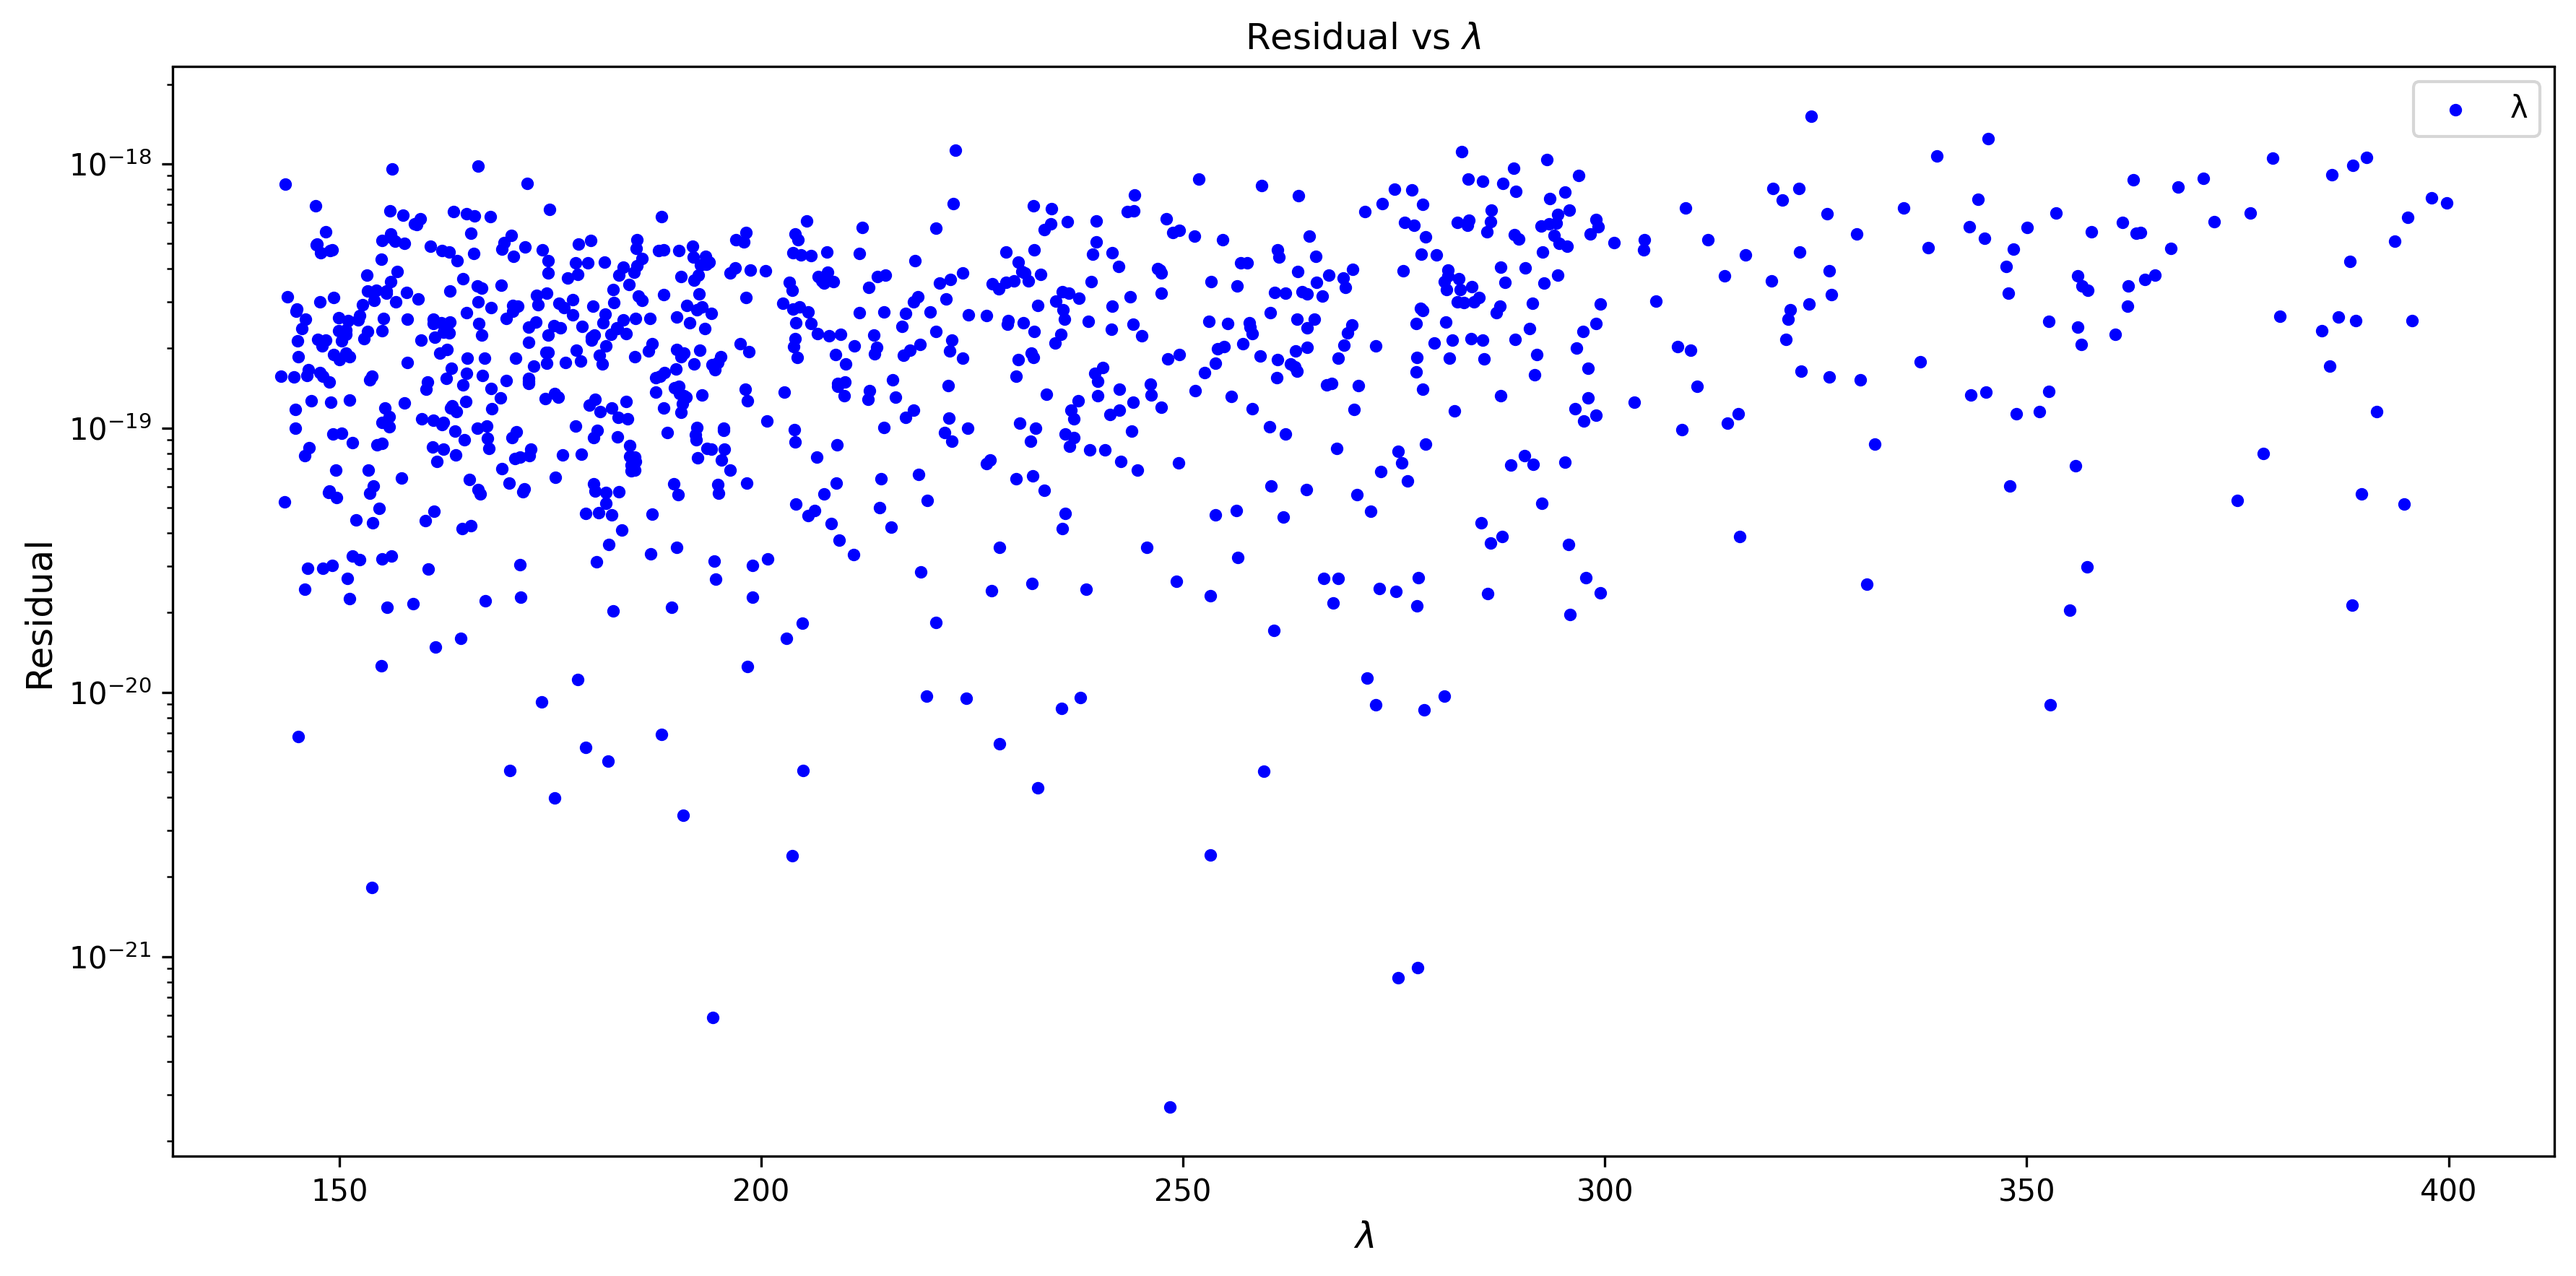
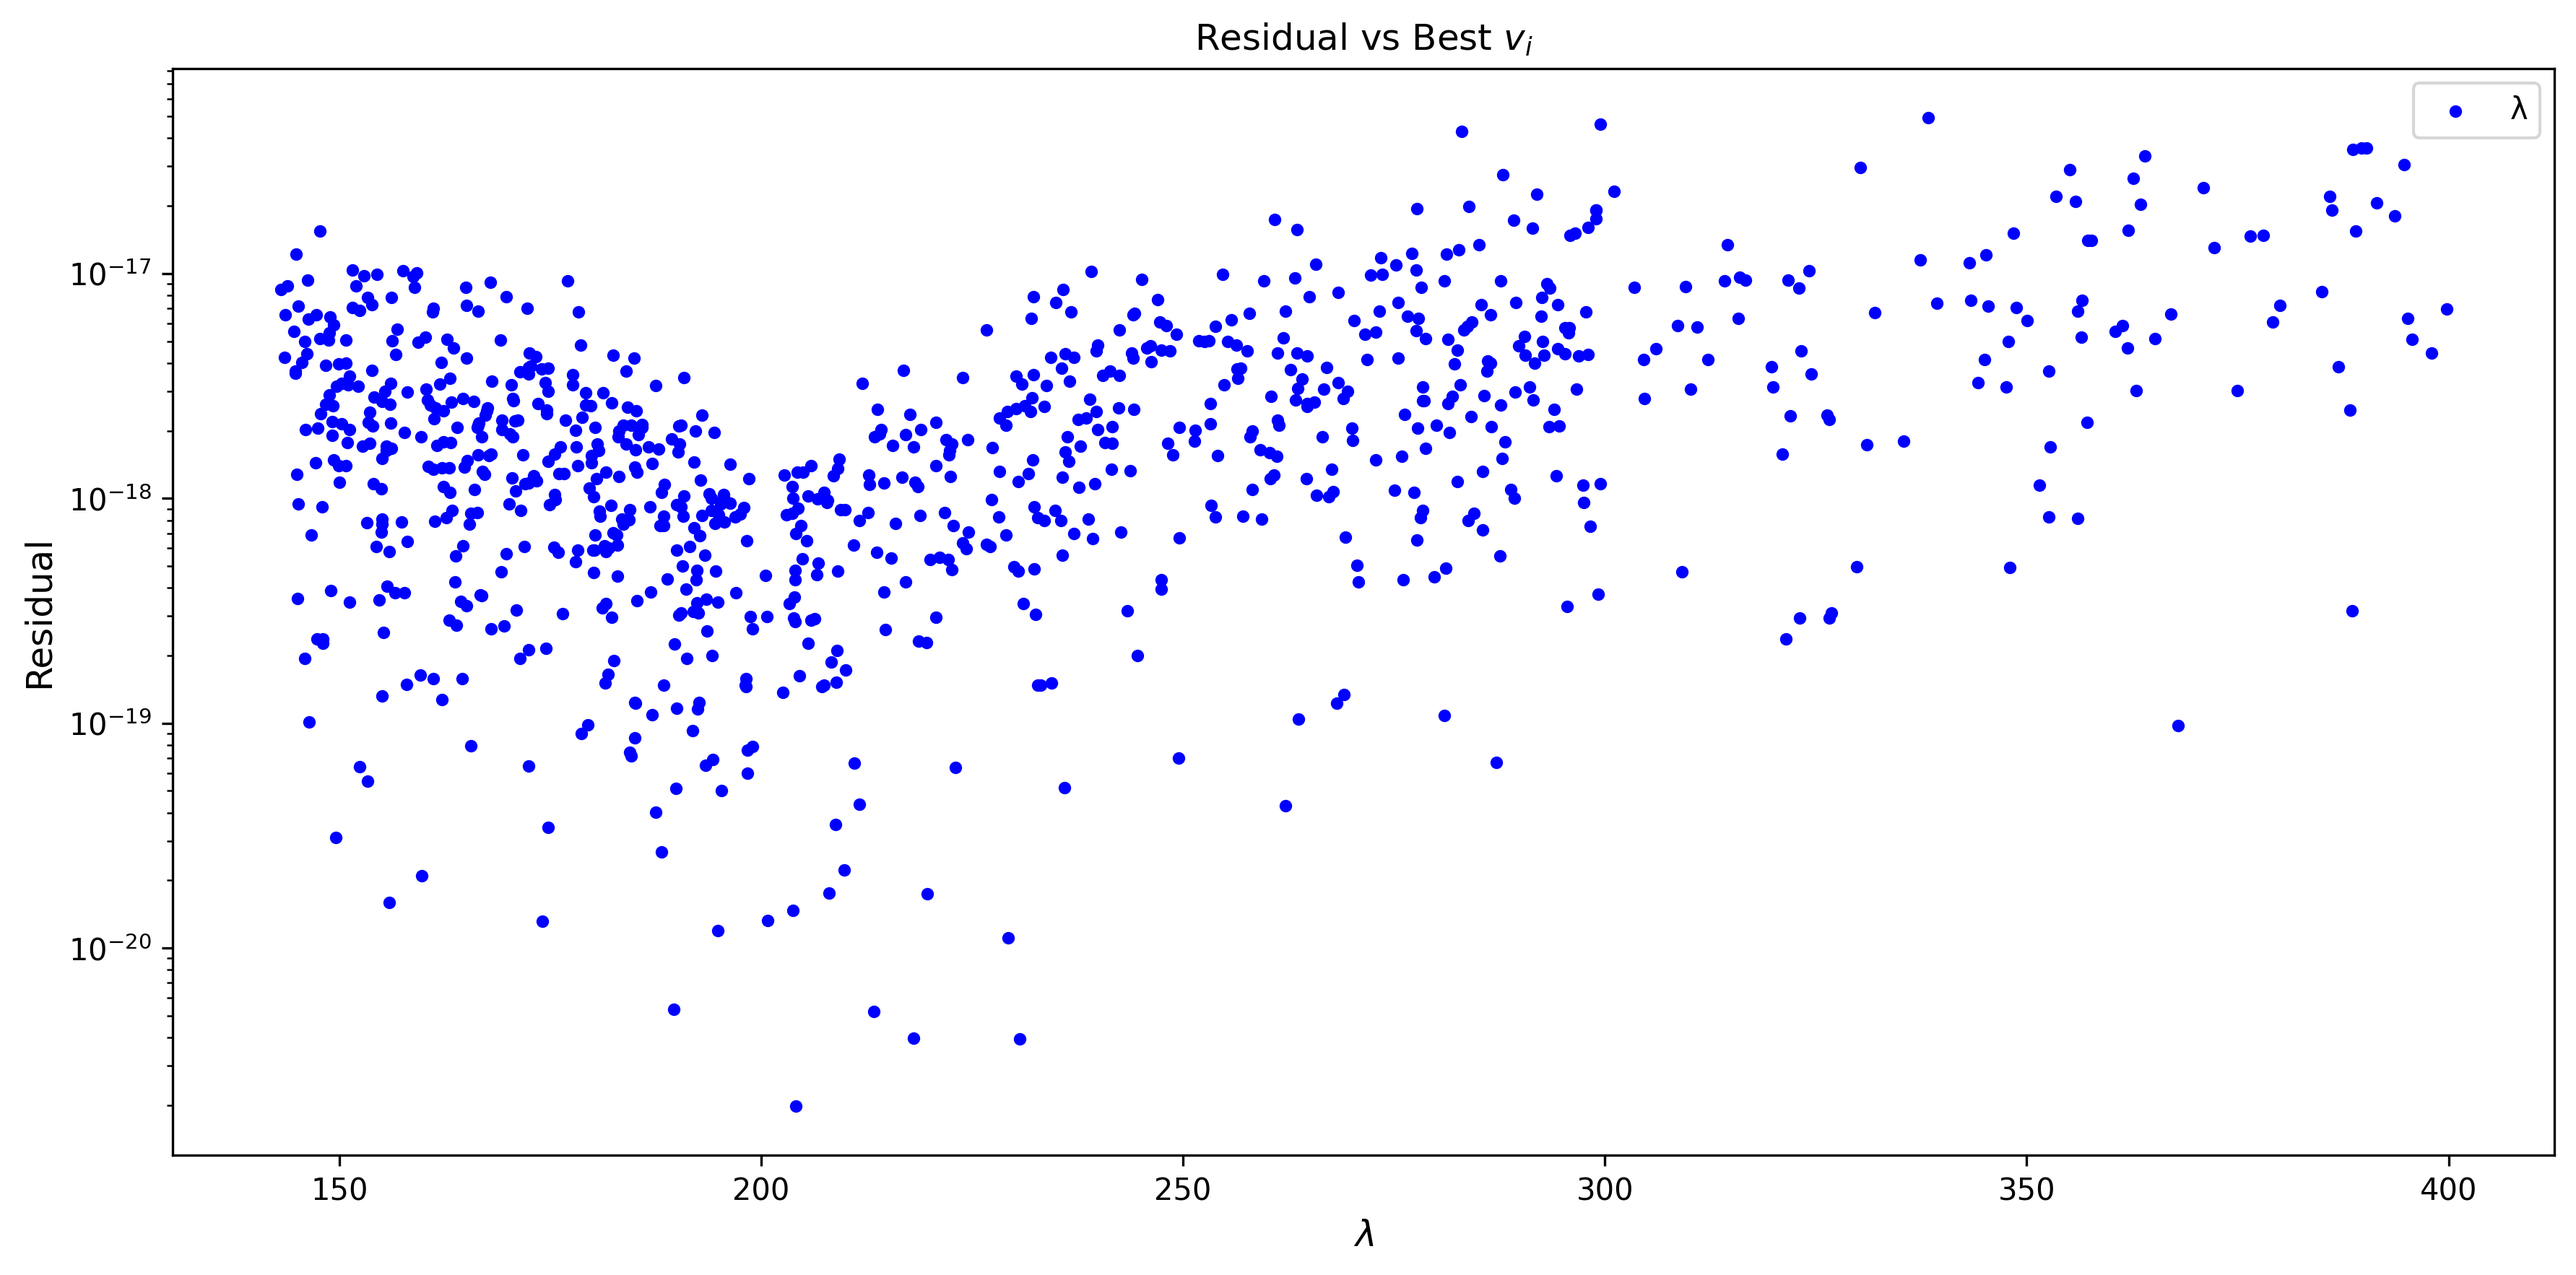
Fixed bugs and modified residual plots

diff --git a/code/spectral_lanczos.py b/code/spectral_lanczos.py
@@ -186,7 +186,7 @@ def is_triu(T):
     """Check if T is upper triangular """
     return np.allclose(T, np.triu(T))
 
-def inverse_iteration(T, tol=1e-10, max_iter=1000):
+def inverse_iteration(T, tol=1e-10, max_iter=3000):
     """ Compute the smallest singular values using inverse iteration"""
     m, n = T.shape
     x = np.random.randn(n)
@@ -210,22 +210,33 @@ def compute_best_v(A, B, alphas, betas, tol):
     res = np.zeros_like(alphas, dtype=float)
     Ta, Tb, Q, Z = qz(A, B)
     for i in range(len(alphas)):
-        T = betas[i]*Ta - alphas[i]*Tb
+        T = betas[i] * Ta - alphas[i] * Tb
         n = T.shape[0]
 
         # Check if subdiagonal element is zero based on tol
-        for j in range(n-1):
-            if np.abs(T[j+1, j]) <= tol:
-                T[j+1, j] = 0
-            else:
-                continue
-            blk = T[j:j+1, j:j+1]
-            q, r = qr(blk)
-            T[j:j+1, j:n] = q.T @ T[j:j+1, j:n]
-        
+        for j in range(n - 1): 
+            if T[j + 1, j] != 0:
+                if np.abs(T[j + 1, j]) <= tol:
+                    T[j + 1, j] = 0
+                else:
+                    blk = T[j:j + 2, j:j + 2]
+                    q, r = qr(blk)
+                    T[j:j + 2, j:n] = q.T @ T[j:j + 2, j:n]
+
+        # Ensure T is upper triangular
         if not is_triu(T):
             print("T not upper triangular!")
             sys.exit(1)
+
+        # Check for zero diagonal elements and handle them
+        diag_indices = np.diag_indices_from(T)
+        zero_diag = np.abs(T[diag_indices]) <= tol
+        if np.any(zero_diag):
+            print(f"Diagonal element(s) too small or zero in T for index {i}. Skipping...")
+            res[i] = np.inf
+            continue
+
+        # Perform inverse iteration
         sigma_min, x = inverse_iteration(T, tol=tol)
         den = np.abs(betas[i]) * la.norm(A) + np.abs(alphas[i]) * la.norm(B)
         res[i] = sigma_min / den if den != 0 else np.inf
@@ -248,21 +259,27 @@ def compute_generalized_residuals(A, B, L, U_converged, theta_converged, shift):
         print("No converged Ritz pair!")
         sys.exit(1)
 
-def plot_residuals(eigenvalues, residuals, save_path=None):
-    """ Plot the residuals """
-    fig, ax1 = plt.subplots(1, 1, figsize=(12, 6), sharey=True)
-    
-    # Plot for the residuals of computed eigenvalues
-    ax1.scatter(eigenvalues, residuals, color='blue', label='λ', s=10)
-    #ax1.set_xscale('log')
+def plot_residuals(eigenvalues_generalized, residuals_generalized, eigenvalues_ritz, residuals_ritz, save_path=None):
+    """ Plot the residuals for both Generalized Eigenvalues and Ritz values side by side """
+    fig, (ax1, ax2) = plt.subplots(1, 2, figsize=(16, 6))
+
+    # Plot for the residuals of generalized eigenvalues
+    ax1.scatter(eigenvalues_generalized, residuals_generalized, color='blue', label='λ (Generalized)', s=10)
     ax1.set_yscale('log')
     ax1.set_xlabel(r'$\lambda$', fontsize=12)
     ax1.set_ylabel('Residual', fontsize=12)
-    ax1.set_title('Residual vs $\lambda$', fontsize=12)
+    ax1.set_title('Residual vs Generalized Eigenvalues', fontsize=12)
     ax1.legend()
 
+    # Plot for the residuals of Ritz values
+    ax2.scatter(eigenvalues_ritz, residuals_ritz, color='green', label='λ (Ritz)', s=10)
+    ax2.set_yscale('log')
+    ax2.set_xlabel(r'$\lambda$', fontsize=12)
+    ax2.set_title('Residual vs Ritz Values', fontsize=12)
+    ax2.legend()
+
     plt.tight_layout()
-    
+
     if save_path:
         plt.savefig(save_path, dpi=300, bbox_inches='tight')
         print(f"Plot saved to {save_path}")

diff --git a/code/main.py b/code/main.py
@@ -15,7 +15,7 @@ if __name__ == "__main__":
     shift = 201
     n=1200
     tol = 1e-10
-
+    
     D = eigenvalue_distribution(m1, m2, m3, spread1, spread2, spread3)
     D = np.diag(D)
     A, B, L = generate_matrix(D, delta=1e-2)
@@ -25,6 +25,10 @@ if __name__ == "__main__":
     # compute lanczos decomposition residual
     decomp_res = compute_decomp_residual(A=A, B=B, L=L, T=T, Q=Q, q=q, x=x, shift=shift)
 
+    print(f"Conditon number of A: {la.cond(A)}\n")
+    print(f"Condition number of B: {la.cond(B)}\n")
+    print(f"Decomposition residual: {decomp_res}\n")
+
     # Compute the converged ritz pairs and the (spectral transformation) relative ritz residuals
     U_converged, theta_converged, ritz_residuals = compute_ritz_residuals(A, B, L, T, Q, shift, tol)
 
@@ -32,22 +36,16 @@ if __name__ == "__main__":
     gen_residuals, v, alpha, beta = compute_generalized_residuals(A, B, L, U_converged, theta_converged, shift)
 
     # Compute the best relative residual
-    #res = compute_best_v(A, B, alpha, beta, tol=1e-10)
+    # res = compute_best_v(A, B, alpha, beta, tol=1e-10)
 
     # Compute best relative res naive
-    res = compute_best_v_naive(A, B, alpha, beta)
-    
-    
-    #print(f"Generalized Relative Residuals for converged ritz pair: \n{la.norm(gen_residuals, axis=0)}\n")
-    #print(f"Relative Ritz Residuals for Spectral Transformation: \n{ritz_residuals}\n")
-    print(f"Conditon number of A: {la.cond(A)}\n")
-    print(f"Condition number of B: {la.cond(B)}\n")
-    print(f"Decomposition residual: {decomp_res}\n")
+    # res = compute_best_v_naive(A, B, alpha, beta)
 
-    plot_residuals(eigenvalues=theta_converged, residuals=ritz_residuals, save_path="ritz_residuals")
-    plot_residuals(eigenvalues=alpha/beta, residuals=la.norm(gen_residuals, axis=0), save_path="converged_ritz_residuals")
-    plot_residuals(eigenvalues=alpha/beta, residuals=res, save_path="best_residuals")
-    
+    print(f"Number of converged Ritz pairs: {theta_converged.shape[0]}")
+
+    plot_residuals(eigenvalues_generalized=alpha/beta, residuals_generalized=la.norm(gen_residuals, axis=0),
+                   eigenvalues_ritz=theta_converged, residuals_ritz=ritz_residuals, save_path="residuals_plot")
+
     end = time.time()
     elapsed_time = end - start
     minutes = int(elapsed_time // 60)
